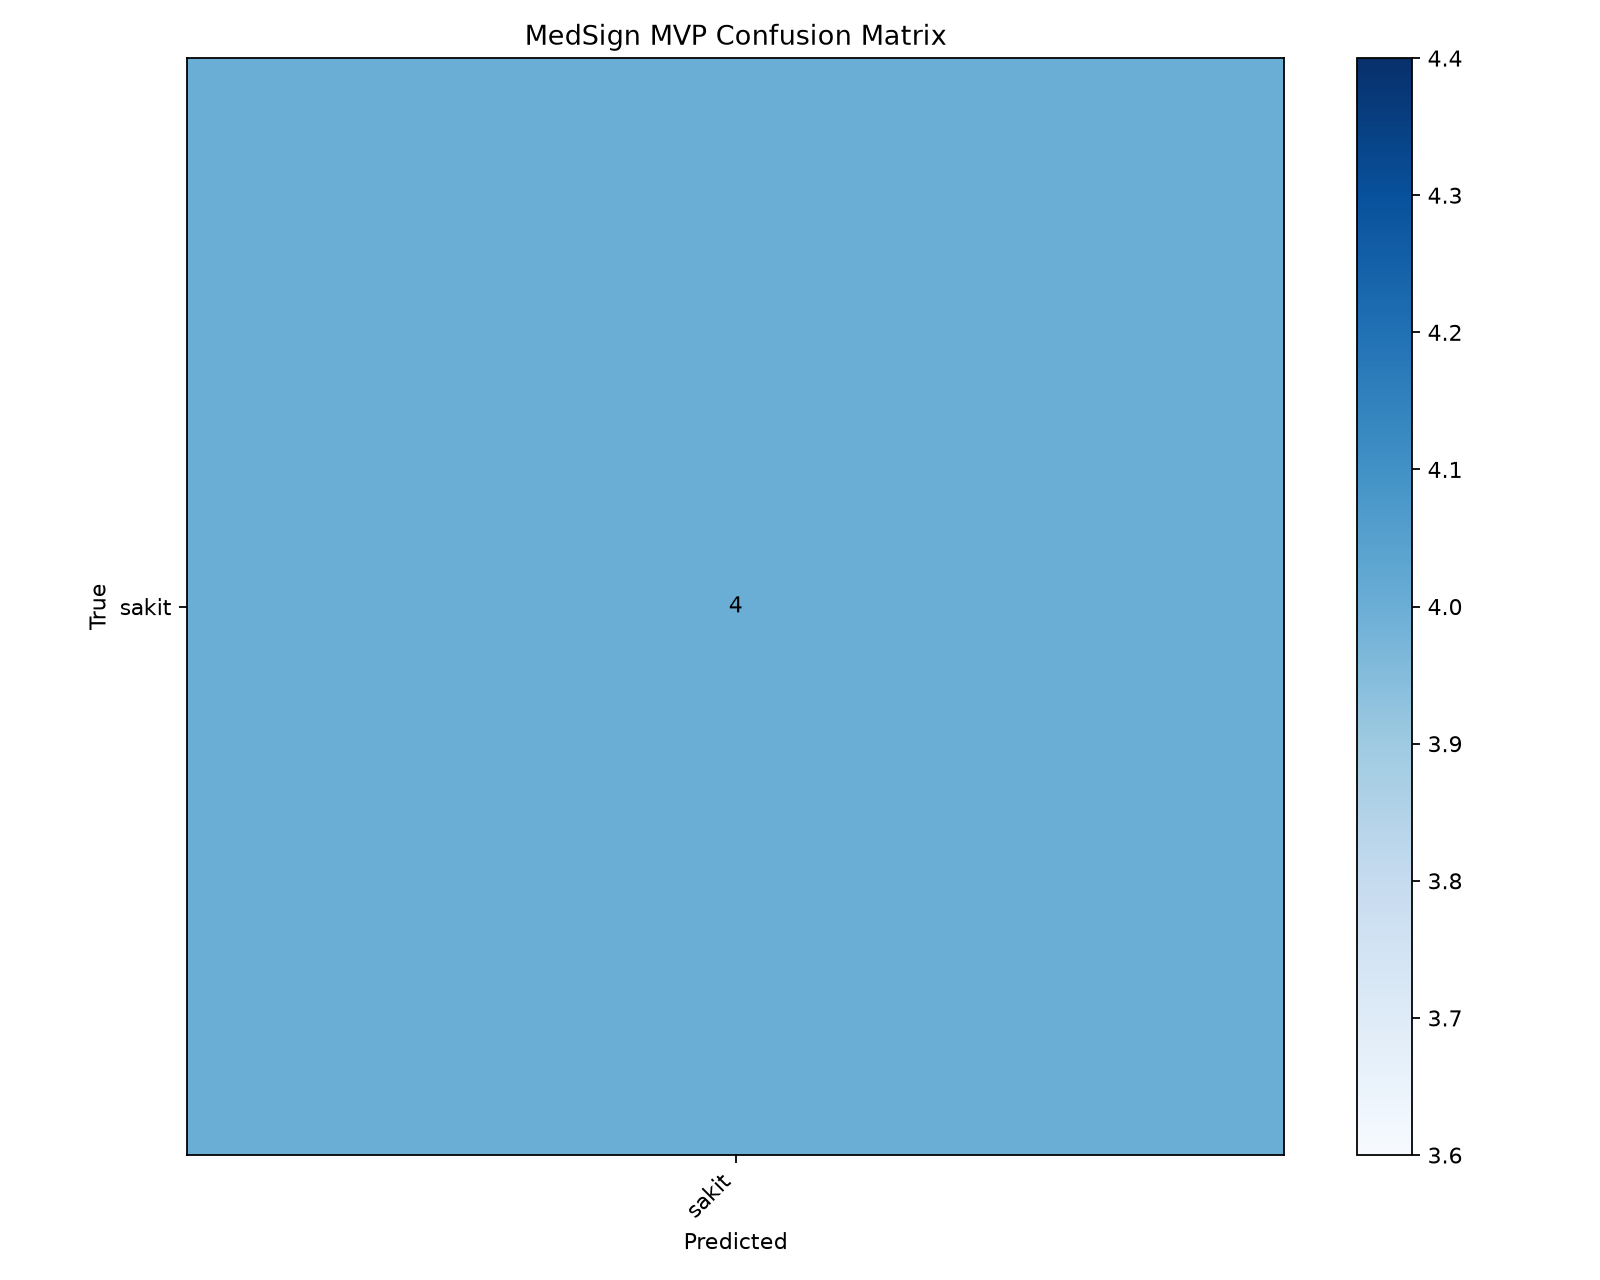
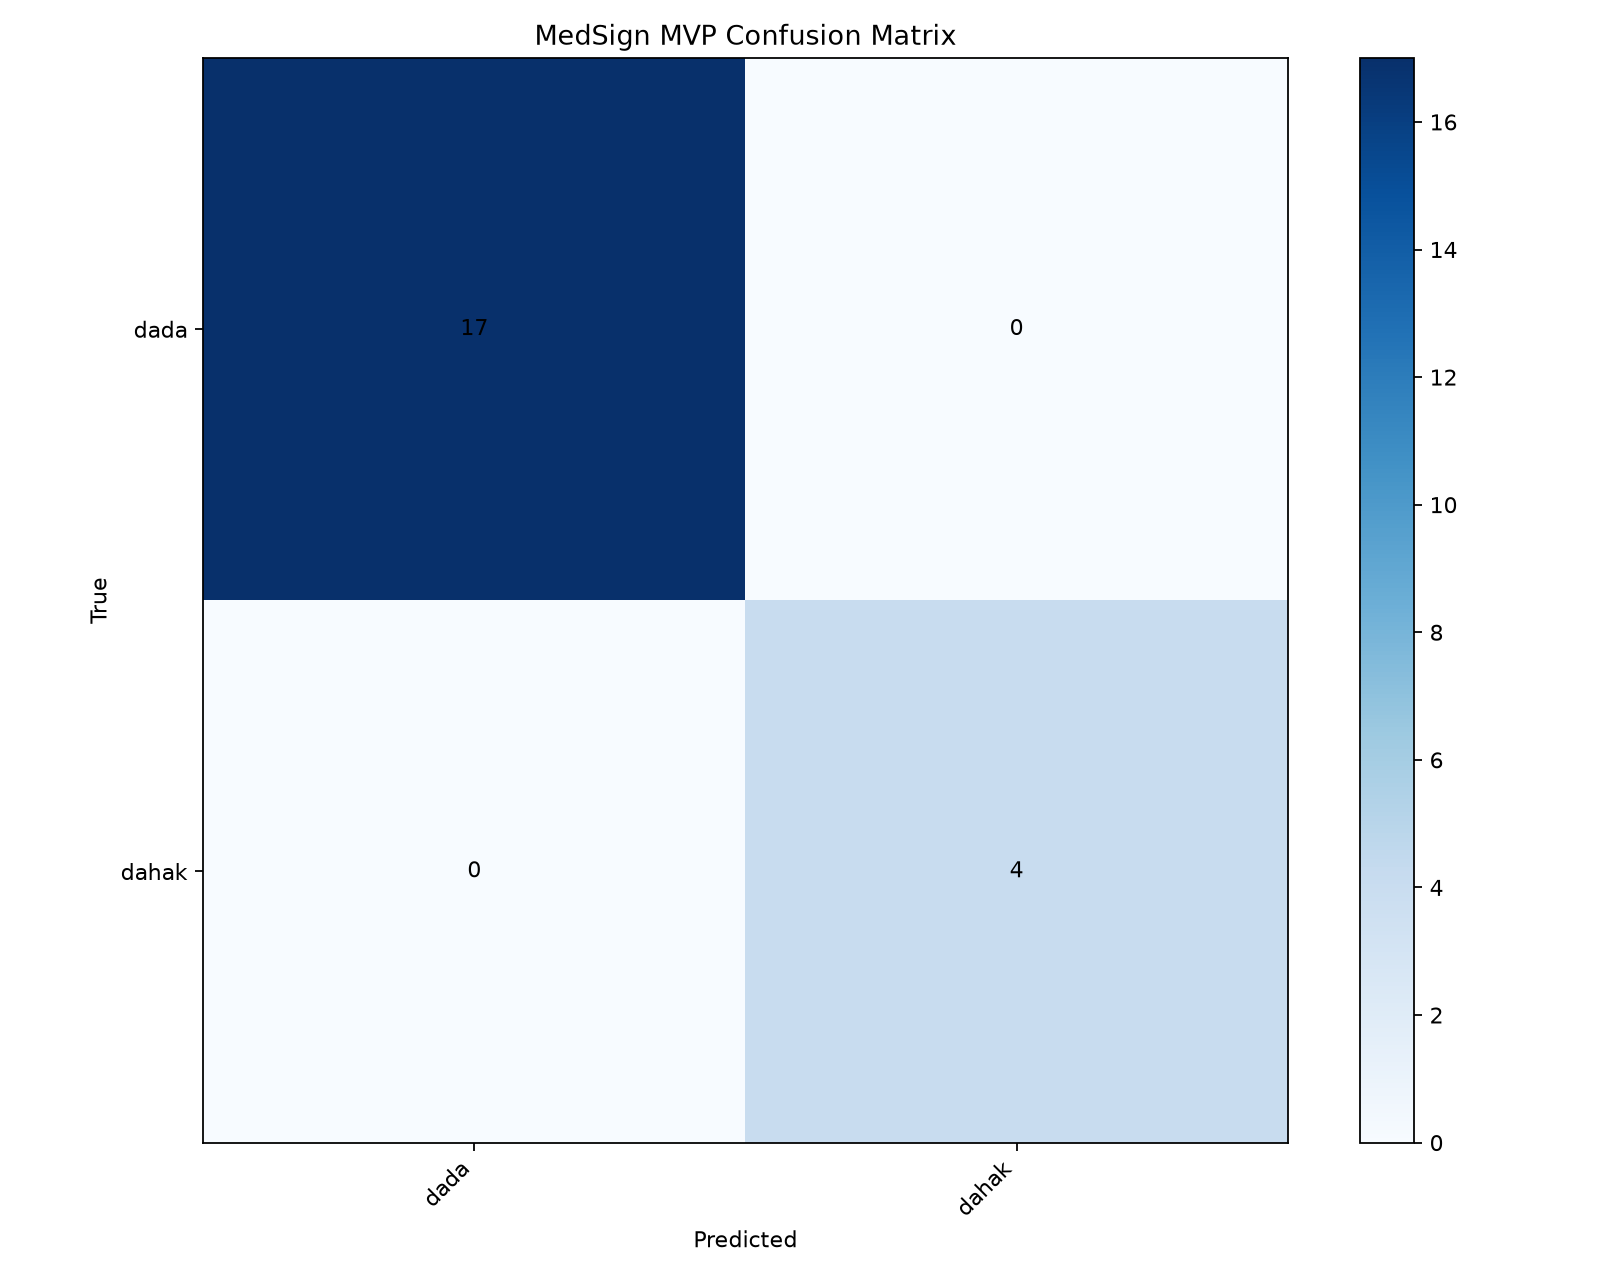
docs: update training metrics and report files

diff --git a/backend/reports/DATASET_HEALTH_REPORT.md b/backend/reports/DATASET_HEALTH_REPORT.md
@@ -1,6 +1,6 @@
 # DATASET_HEALTH_REPORT
 
-Generated at: 2026-07-18T10:59:51
+Generated at: 2026-07-18T11:11:36
 
 ## Contract
 